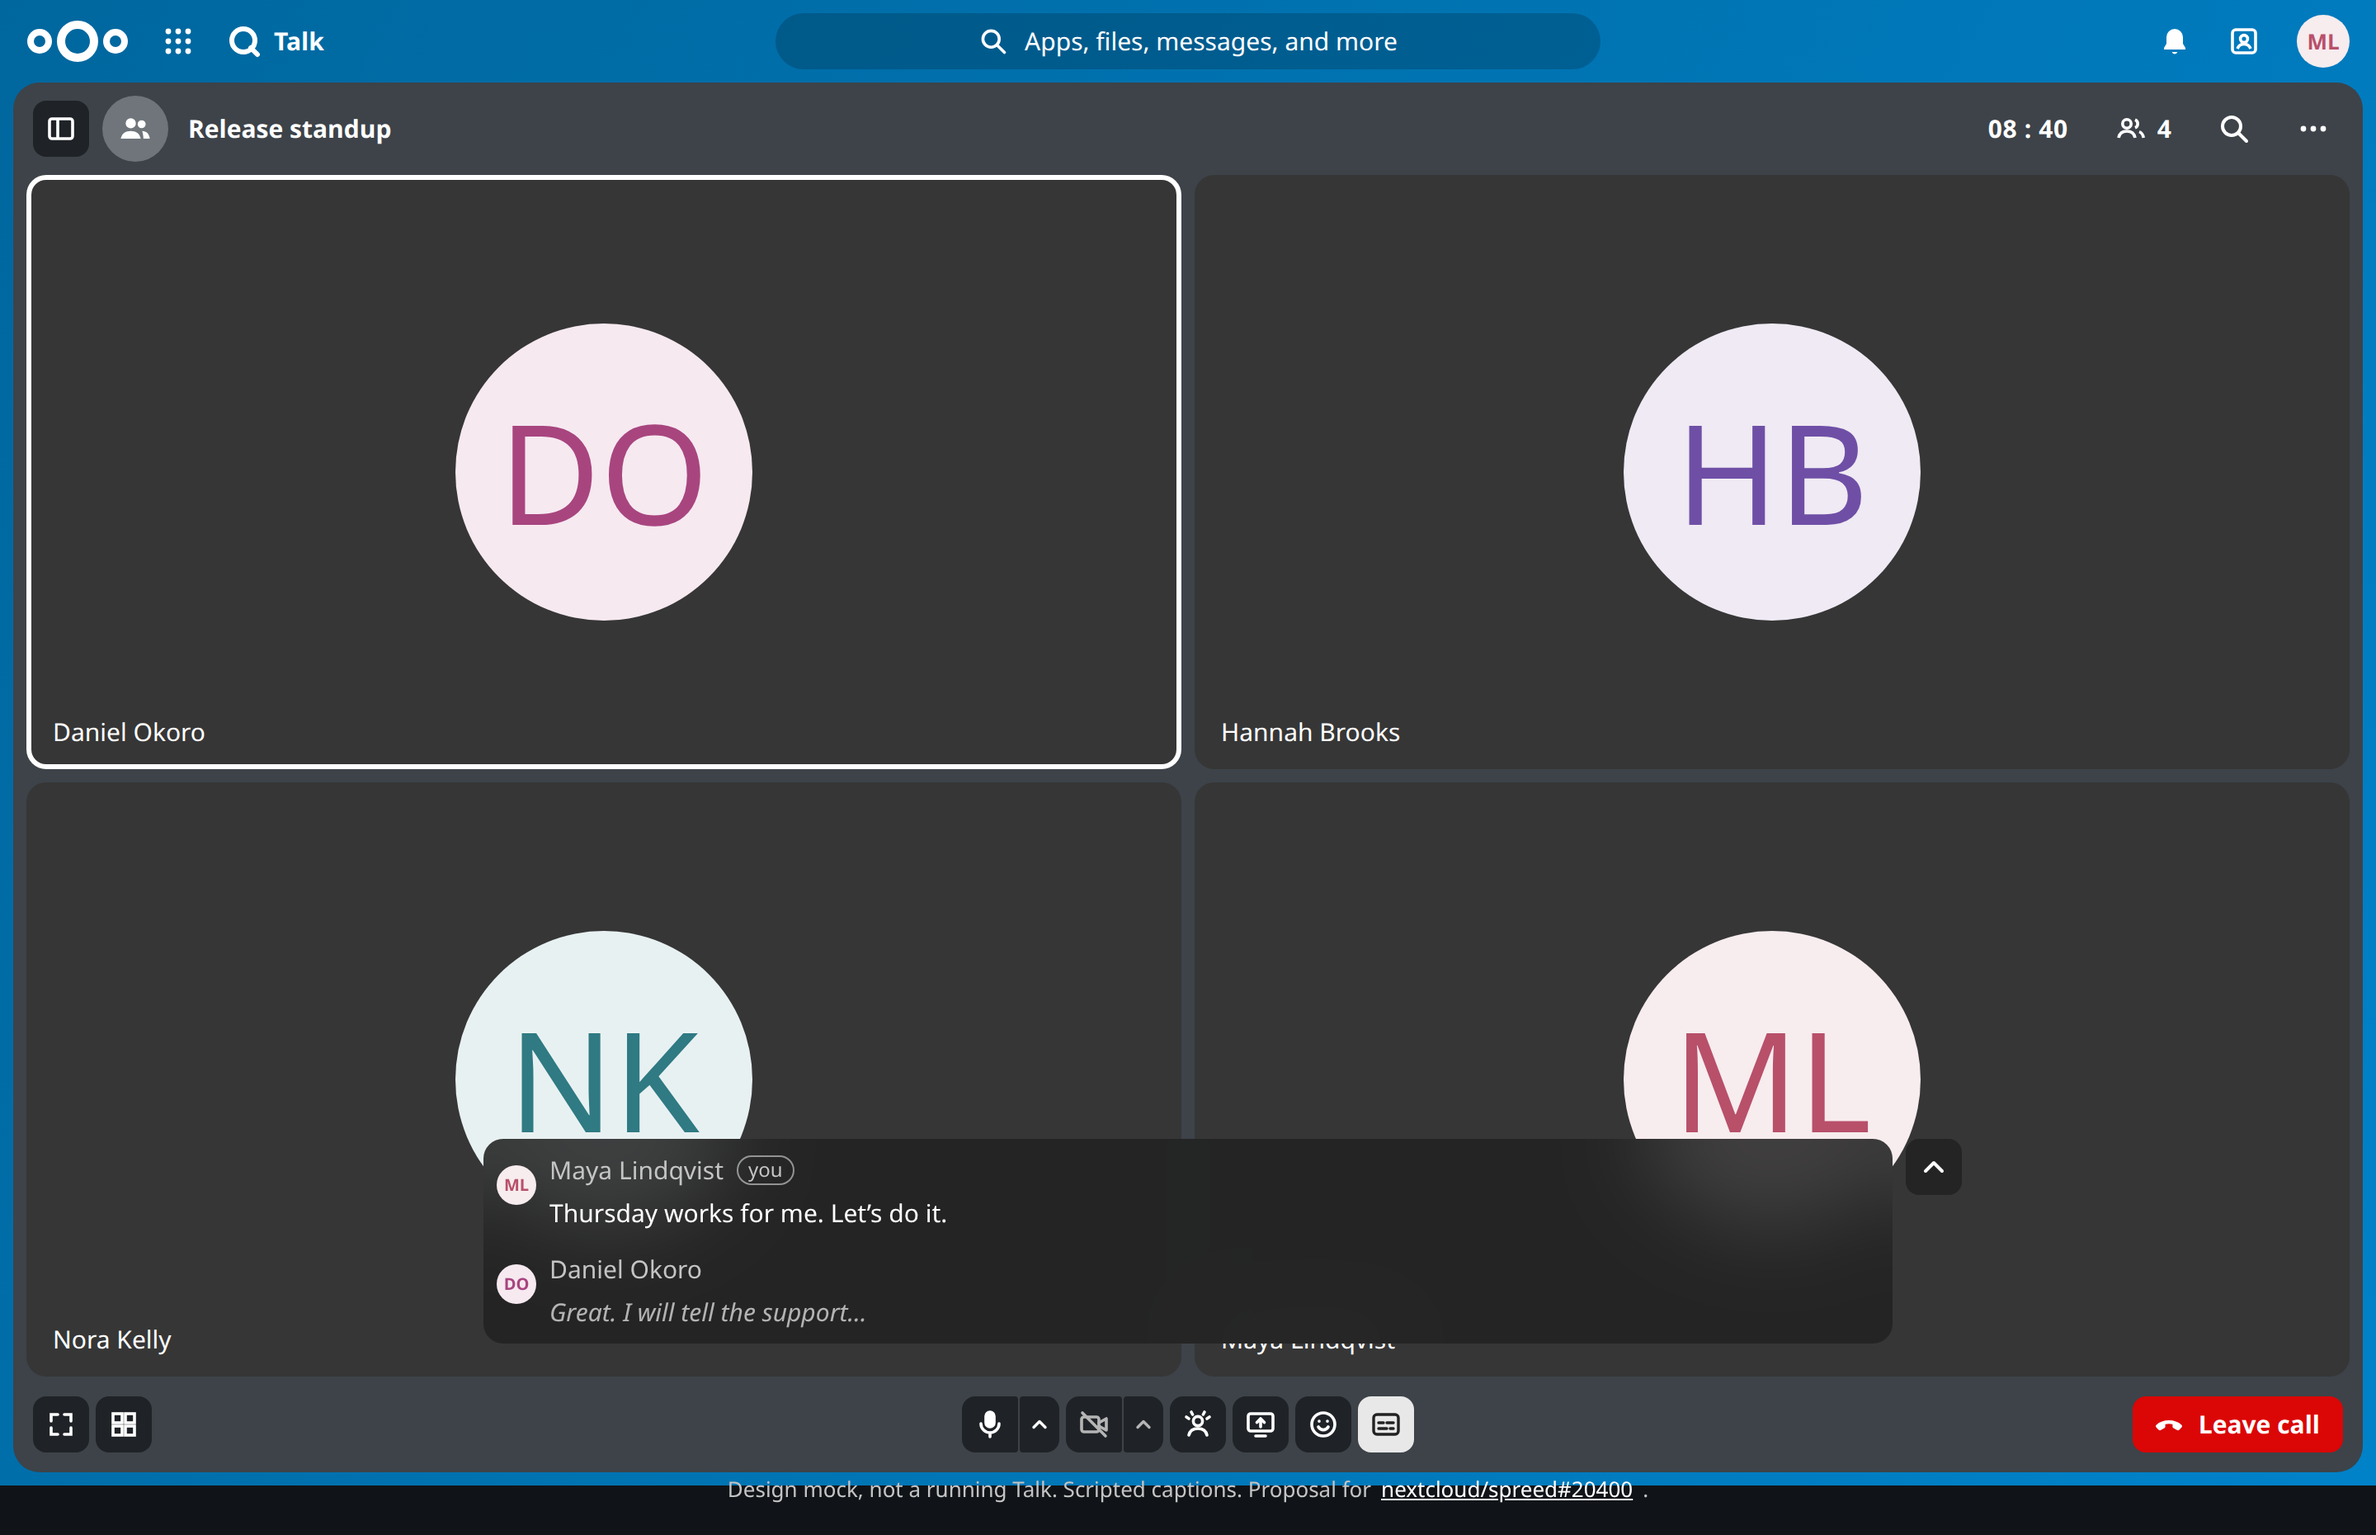
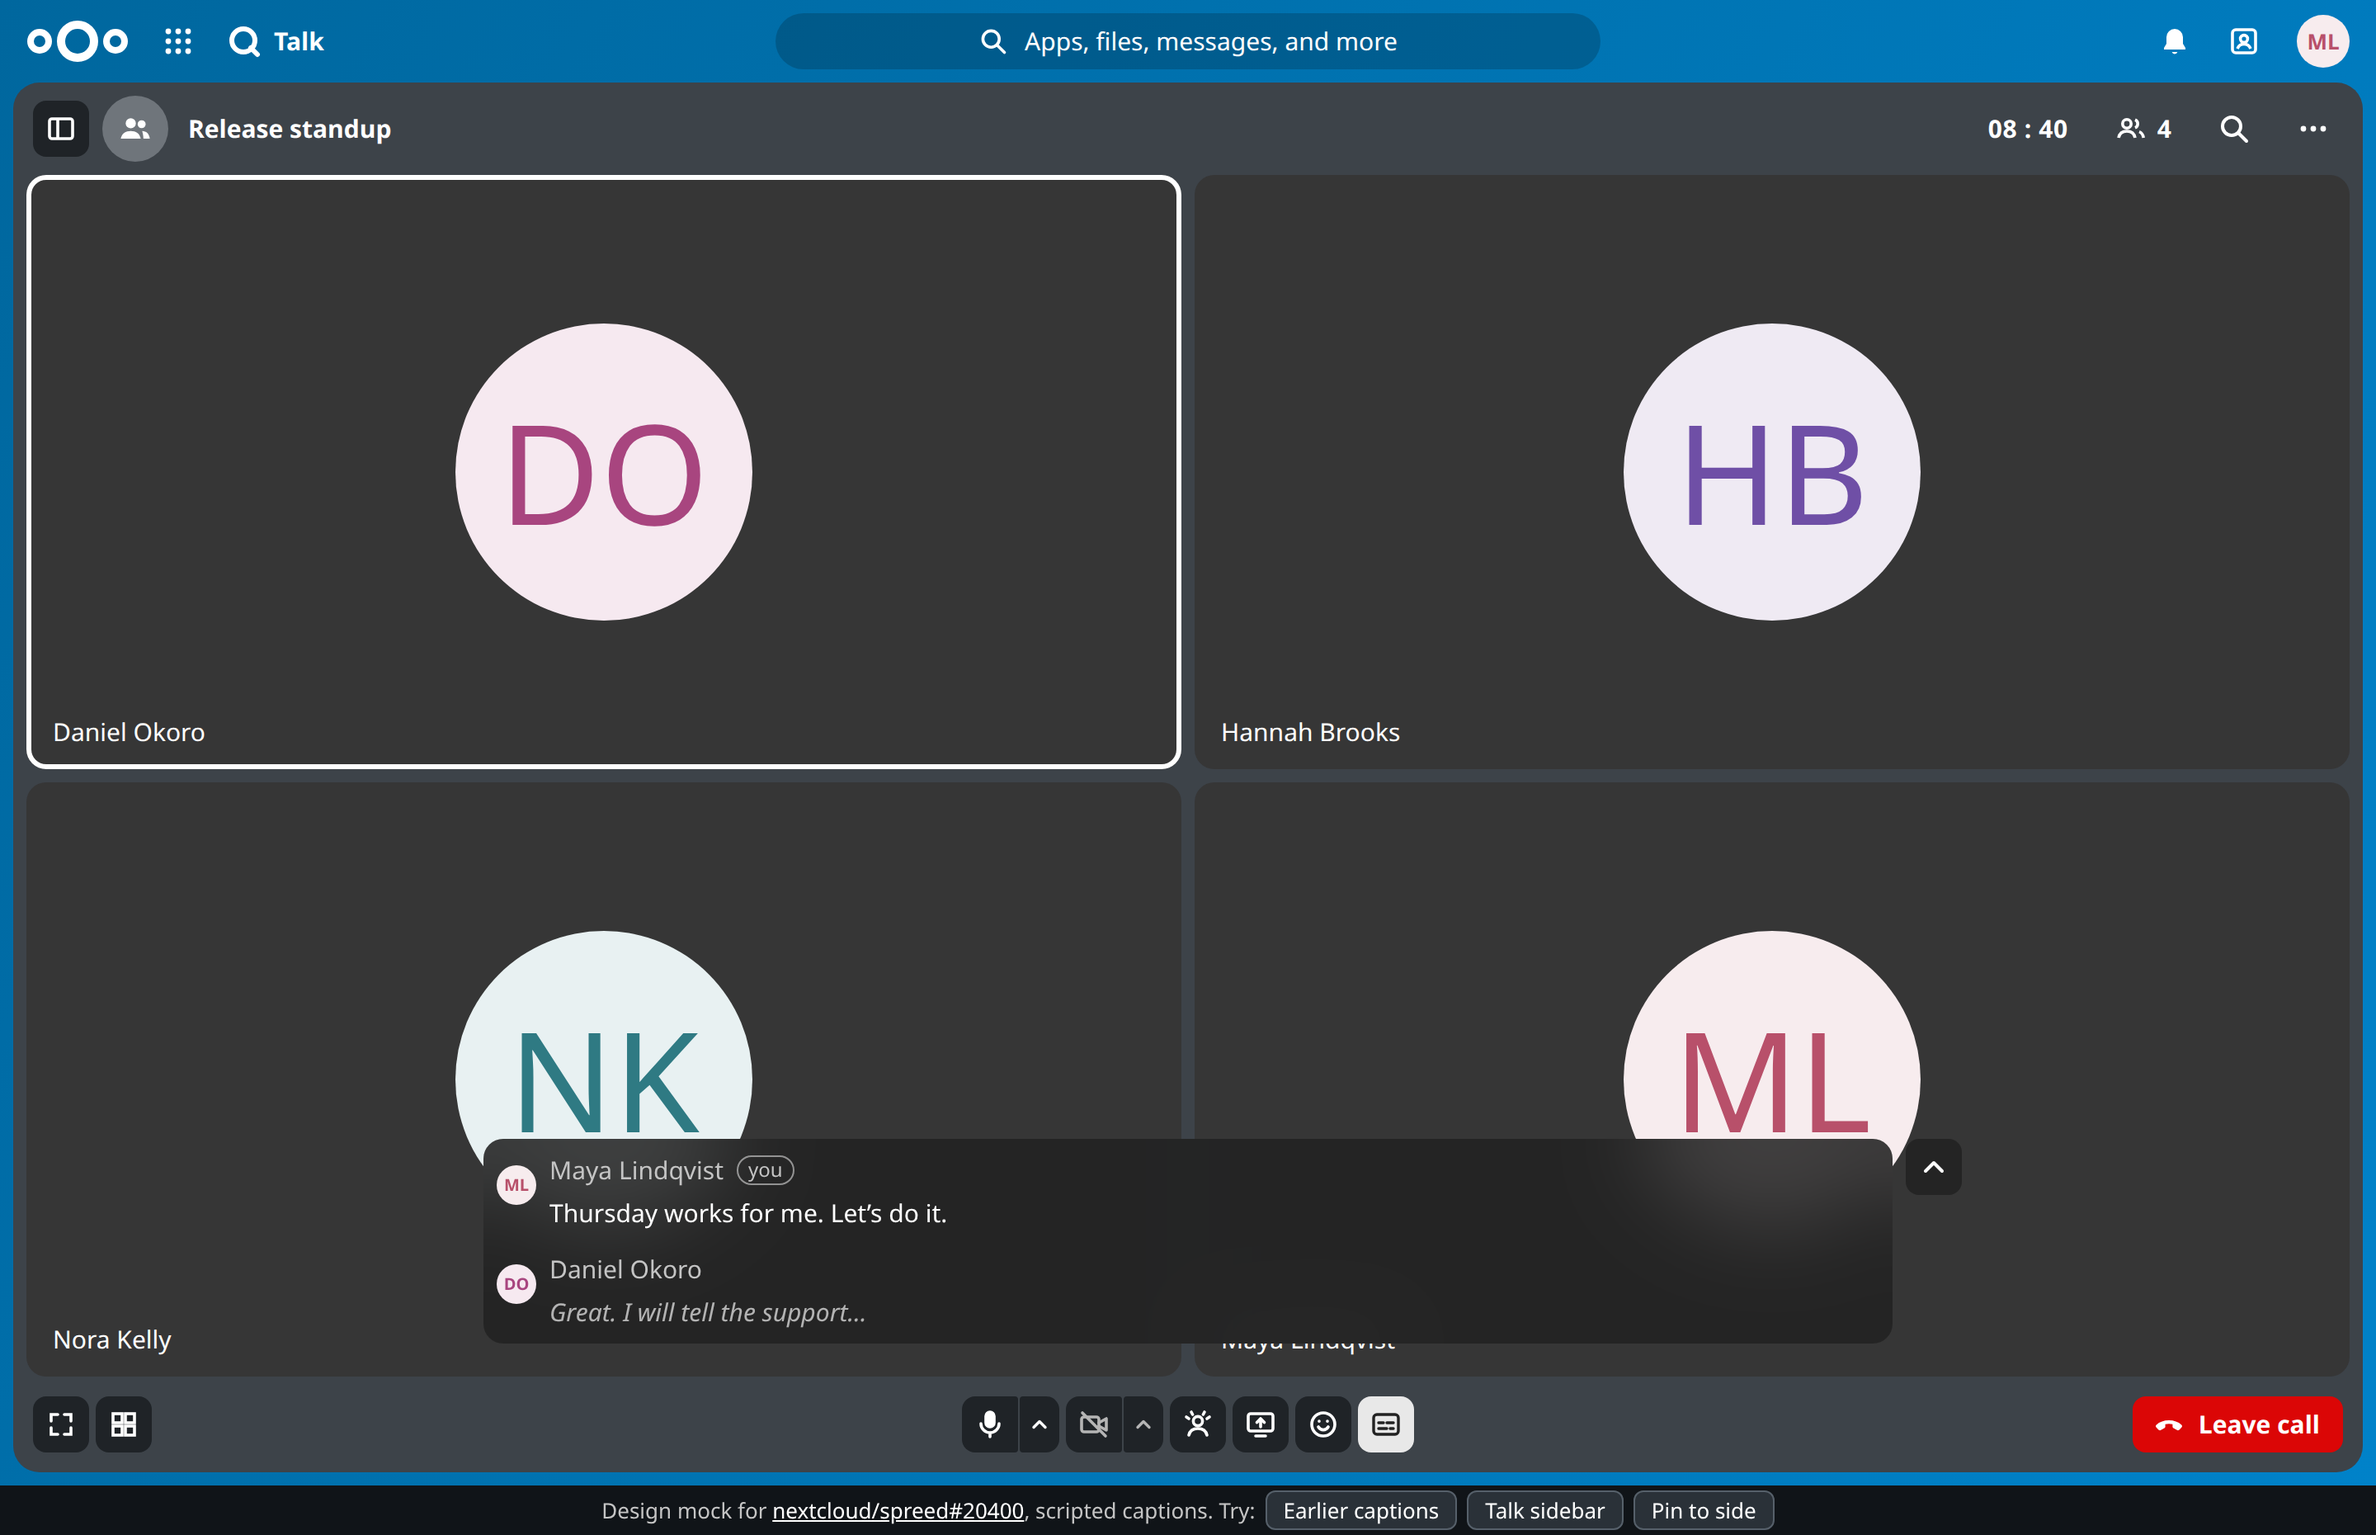
Add try-it buttons under the mock; hold scroll position when reading back

Changed region(s): [[0.25, 0.9667, 0.75, 0.9978]]

diff --git a/index.html b/index.html
@@ -10,7 +10,10 @@ html, body { margin: 0; height: 100%; overflow: hidden; background: #101418; }
 .boot * { transition: none !important; }
 button:focus-visible, #feed:focus-visible { outline: 2px solid #ffffff; outline-offset: 2px; }
 #note { position: fixed; left: 0; right: 0; bottom: 0; height: 30px; display: flex; align-items: center; justify-content: center; gap: 6px; font: 13px system-ui, sans-serif; color: #c4c4c4; }
+#note { margin: 0; }
 #note a { color: #ffffff; }
+#note button { font: inherit; color: #ffffff; background: #2a3138; border: 1px solid #56606a; border-radius: 6px; padding: 2px 10px; cursor: pointer; }
+#note button[aria-pressed="true"] { background: #ffffff; color: #101418; }
 </style>
 </head>
 <body>
@@ -170,7 +173,7 @@ button:focus-visible, #feed:focus-visible { outline: 2px solid #ffffff; outline-
   </aside>
 </div>
 
-<p id="note">Design mock, not a running Talk. Scripted captions. Proposal for <a href="https://github.com/nextcloud/spreed/issues/20400">nextcloud/spreed#20400</a>.</p>
+<p id="note"><span>Design mock for <a href="https://github.com/nextcloud/spreed/issues/20400">nextcloud/spreed#20400</a>, scripted captions. Try:</span> <button id="demoHistory" type="button">Earlier captions</button> <button id="demoSidebar" type="button">Talk sidebar</button> <button id="demoPin" type="button">Pin to side</button></p>
 <script>
 (function () {
   var people = {
@@ -334,6 +337,12 @@ button:focus-visible, #feed:focus-visible { outline: 2px solid #ffffff; outline-
     $('jump').style.display = open && !s.follow ? 'flex' : 'none';
     $('jumpLabel').textContent = s.missed > 0 ? 'Jump to live · ' + s.missed + ' new' : 'Jump to live';
 
+    $('demoHistory').setAttribute('aria-pressed', open && !pinned ? 'true' : 'false');
+    $('demoSidebar').setAttribute('aria-pressed', s.sidebar ? 'true' : 'false');
+    $('demoPin').setAttribute('aria-pressed', pinned ? 'true' : 'false');
+    $('demoPin').disabled = s.sidebar;
+    $('demoPin').style.opacity = s.sidebar ? 0.45 : 1;
+
     var frag = document.createDocumentFragment();
     seed.forEach(function (x) { frag.appendChild(x.who ? block(x, false, open) : marker(x)); });
     s.finals.forEach(function (x) { frag.appendChild(block(x, false, open)); });
@@ -384,6 +393,9 @@ button:focus-visible, #feed:focus-visible { outline: 2px solid #ffffff; outline-
     settle();
   }
   $('people').addEventListener('click', toggleSidebar);
+  $('demoSidebar').addEventListener('click', toggleSidebar);
+  $('demoHistory').addEventListener('click', function () { setMode(s.mode === 'history' ? 'captions' : 'history'); });
+  $('demoPin').addEventListener('click', function () { setMode(s.mode === 'pinned' ? 'captions' : 'pinned'); });
   $('sideClose').addEventListener('click', toggleSidebar);
   $('toggle').addEventListener('click', function () { setMode(s.mode === 'captions' ? 'history' : 'captions'); });
   $('close').addEventListener('click', function () { setMode('captions'); });

diff --git a/README.md b/README.md
@@ -10,6 +10,8 @@ It accompanies the feature request [nextcloud/spreed#20400](https://github.com/n
 
 ## What to try
 
+The three buttons under the mock (Earlier captions, Talk sidebar, Pin to side) switch between the states. Inside the mock:
+
 - The button beside the caption box opens and closes the history. Esc closes it too.
 - Scroll up to read back. The box stops following, and "Jump to live" returns to the newest line.
 - The participants button in the top bar opens Talk's sidebar. The captions stay over the call.
